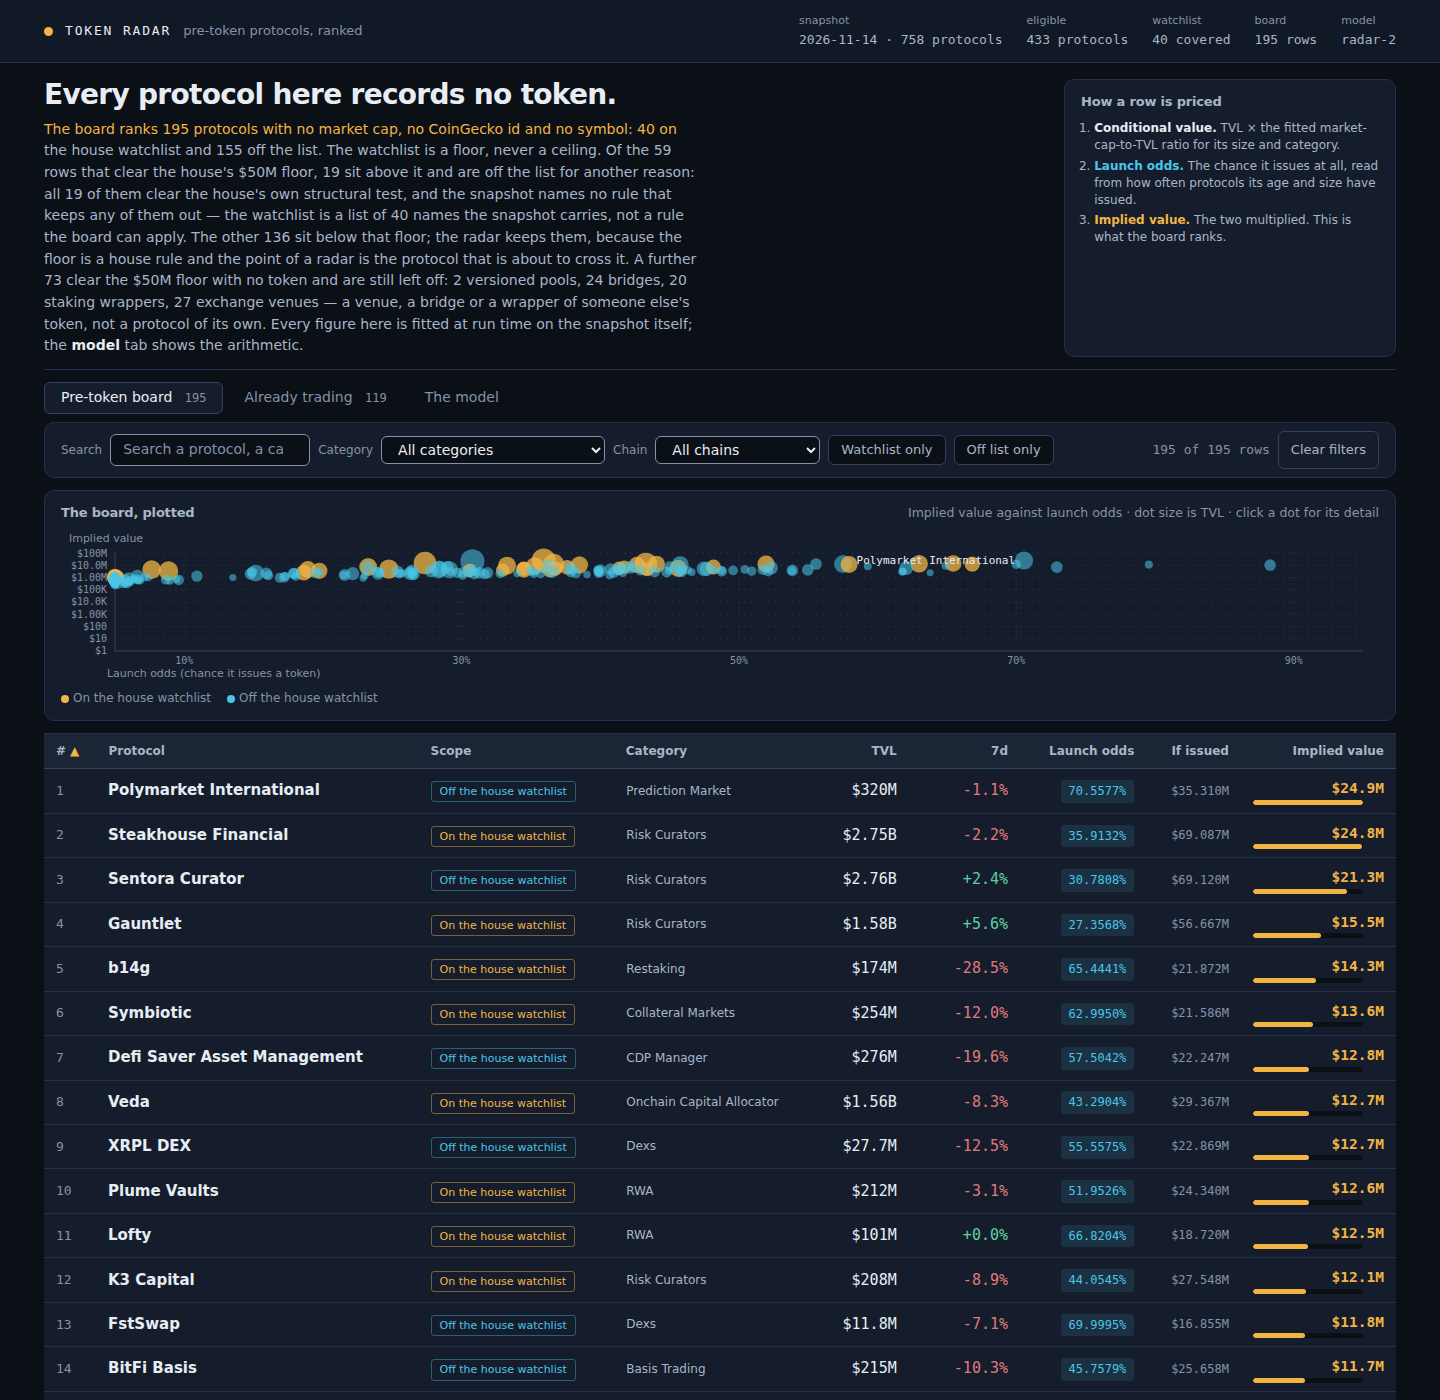
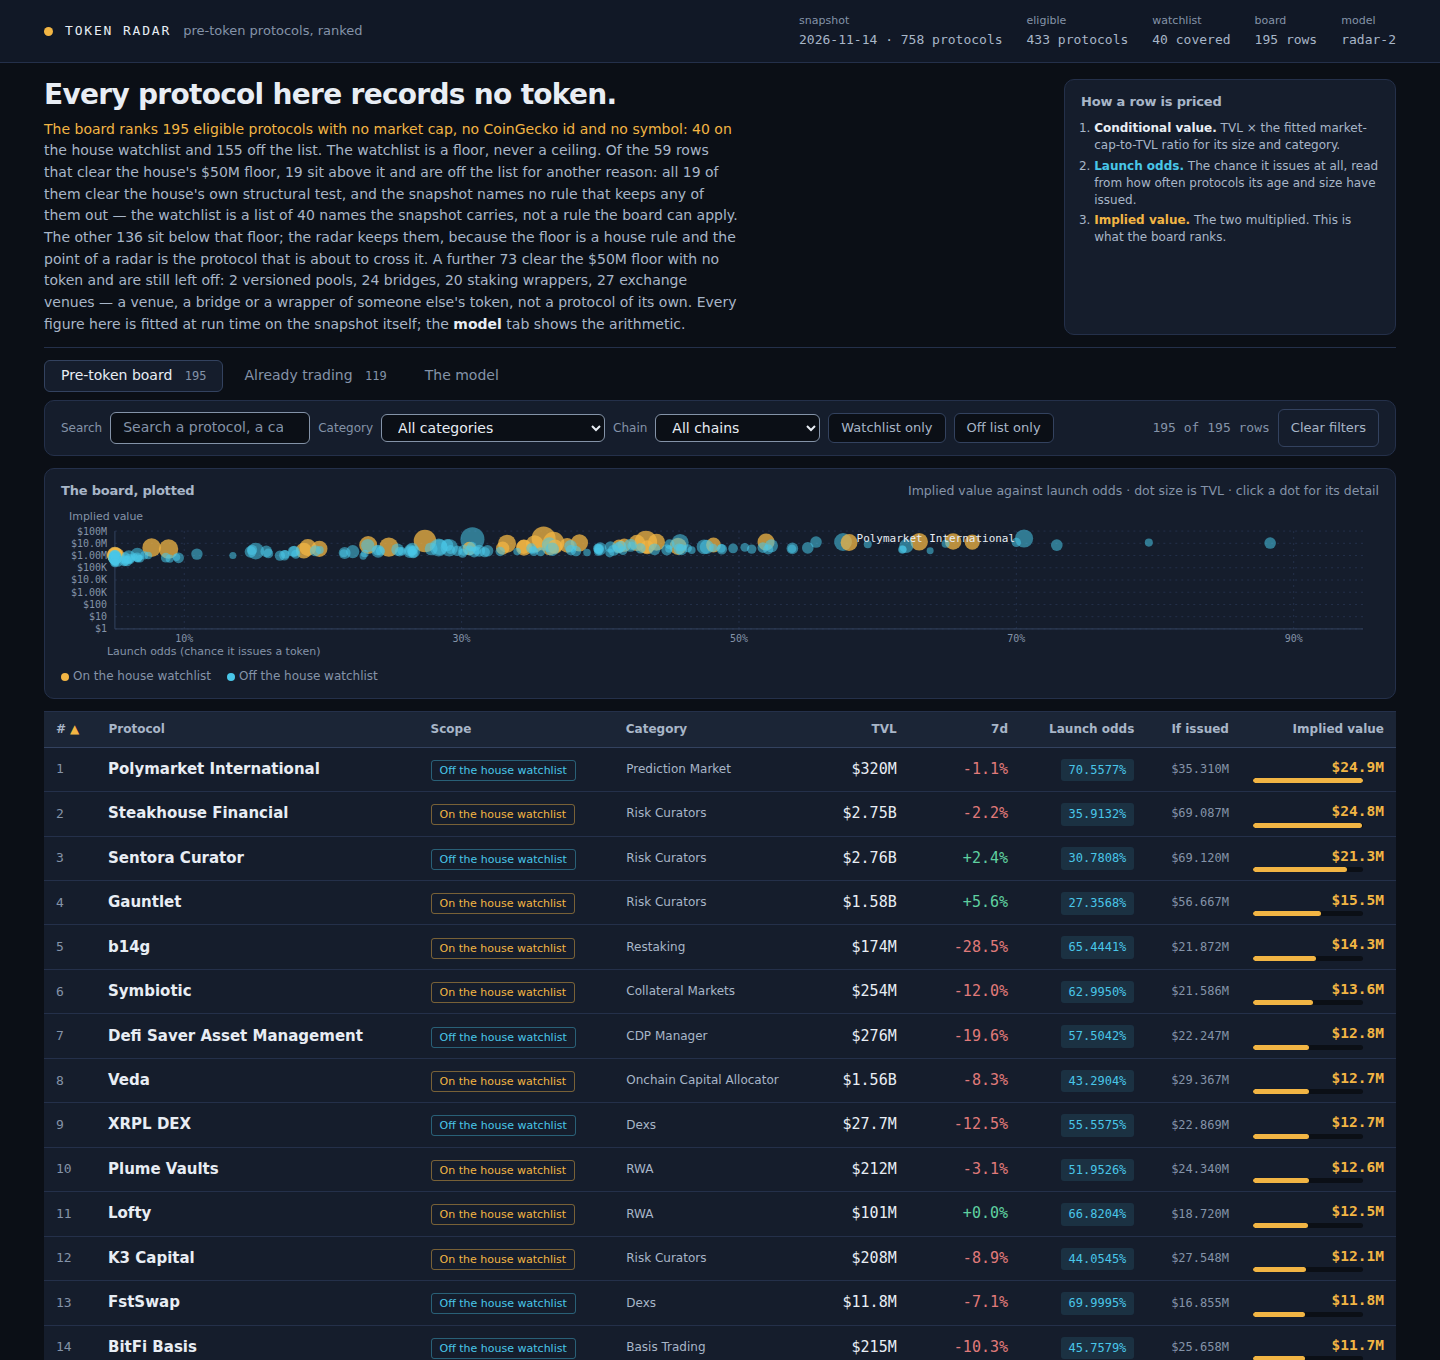
The lede said "195 protocols" where it means 195 eligible ones
The board's 195 rows are the protocols that are eligible AND record no
token. The snapshot holds 342 pre-token protocols; 147 of them the board's
structural rule leaves off. So "the board ranks 195 protocols with no market
cap, no CoinGecko id and no symbol" claimed that every pre-token protocol in
the snapshot was on the board, which is false of 147 of them. The lede now
says "195 eligible protocols", on the board tab and the live tab alike.

Measured: 342 pre-token rows in the snapshot, 195 of them eligible, 147
excluded (73 above the house's floor by a structural rule, 74 below it).

Two things fell out of measuring it:

* The lede is the long pole above the board on a phone. At fourteen pixels it
  runs to twenty-one lines at 390px wide and pushes the first row to 1712px
  down, past the two screens the phone check allows. It now takes twelve and a
  half there, which is nineteen lines and a first row at 1624px. The lede
  keeps its fourteen-point measure everywhere a reader has the room for it.

* The wider measure the longer lede wants (78ch instead of 74ch) is one line
  shorter on a desktop -- ten lines instead of eleven -- so the hero stops
  pushing the board down there too.

The screenshots had to be re-shot: the taller lede added a line to the board
and the filtered view, and the phone's first row moved. They were re-shot at
heights that land inside the house's 300-350 KB band, which the old heights
[…]

diff --git a/lib/model.ts b/lib/model.ts
@@ -1941,14 +1941,14 @@ export function buildRadar(snapshot: Snapshot, cal: Calibration): { board: Board
     live_headline: 'These protocols already have a token.',
     model_headline: 'The model, fitted here in the page.',
     board_lede:
-      'The board ranks ' + board.length + ' protocols with no market cap, no CoinGecko id and no symbol: ' +
+      'The board ranks ' + board.length + ' eligible protocols with no market cap, no CoinGecko id and no symbol: ' +
       snapshot.watchlist.length + ' on the house watchlist and ' + (board.length - snapshot.watchlist.length) +
       ' off the list. The watchlist is a floor, never a ceiling. ' + sep + ' ' +
       'A further ' + facts.off_total + ' clear the ' + FLOOR + ' floor with no token and are still left off: ' +
       offText + ' — a venue, a bridge or a wrapper of someone else\'s token, not a protocol of its own. ' +
       'Every figure here is fitted at run time on the snapshot itself; the <strong>model</strong> tab shows the arithmetic.',
     live_lede:
-      'The board ranks ' + board.length + ' protocols with no market cap, no CoinGecko id and no symbol. ' +
+      'The board ranks ' + board.length + ' eligible protocols with no market cap, no CoinGecko id and no symbol. ' +
       'This tab holds the other side of the line: the ' + live.length +
       ' protocols that <strong>do</strong> record a market cap of their own and are not an exchange venue, by market cap. ' +
       'Their value is the market\'s own, not a model\'s, so they are never mixed into the ranking — ' +

diff --git a/dashboard/theme.css b/dashboard/theme.css
@@ -38,7 +38,7 @@ main{padding:0 var(--e) var(--g)}
 .hero h1+.lede::first-line,.kpi .v.gold,.peer .pv,.tag.wl{color:var(--value)}
 .tag.wl{border-color:var(--v45)}
 thead th .arrow{color:var(--value);margin-left:var(--a)}
-.hero p.lede{margin-top:var(--b);color:var(--i2);max-width:74ch;font-size:14px}
+.hero p.lede{margin-top:var(--b);color:var(--i2);max-width:78ch;font-size:14px}
 .hero p.lede strong,.callout ol li strong{color:var(--ink);font-weight:600}
 .callout,.card,.table-wrap,.plot-wrap,.controls,.live-note,.kpi,.deriv,.peer{background:var(--panel);border:var(--bl);color:var(--ink)}
 .callout,.plot-wrap{border-radius:var(--rm)}
@@ -178,6 +178,7 @@ td{padding:var(--b) var(--c);vertical-align:middle}
 .chips{display:flex;flex-wrap:wrap;gap:var(--a);margin-top:var(--b)}
 .chip-static{background:var(--p2);color:var(--i2);border:var(--bl)}
 @media (max-width: 1000px){.hero-grid{grid-template-columns:1fr}.brand-tag{display:none}}
+@media (max-width: 460px){.hero p.lede{font-size:12.5px}}
 /* iOS Safari zooms the viewport when a focused input's text is under 16px and never zooms back
    out, so the fields hold 16px where the zoom happens. */
 @media (max-width: 1000px){.controls .q,.controls select{font-size:16px}}
